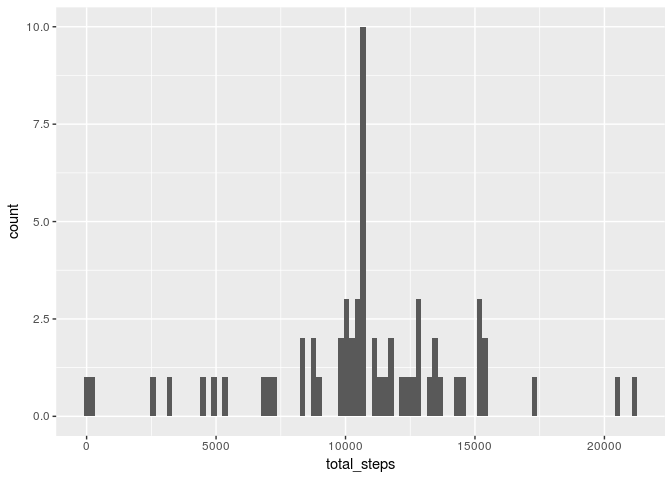
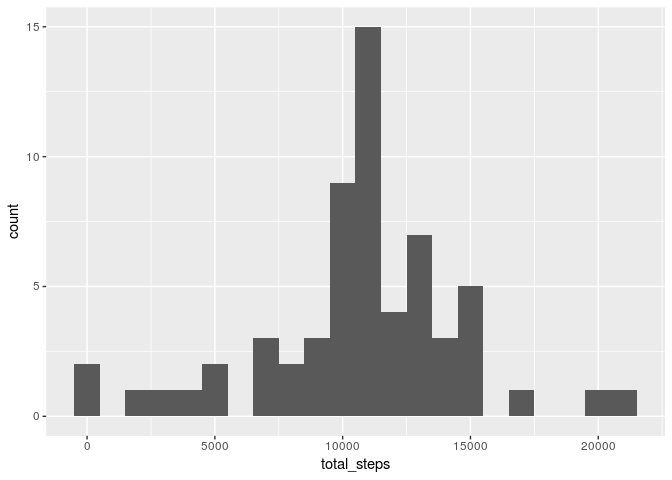
version 2

diff --git a/PA1_template.html b/PA1_template.html
@@ -165,8 +165,8 @@ activity &lt;- read.csv (unz(&quot;activity.zip&quot;,&quot;activity.csv&quot;))
 <p>Calculate the mean total number of steps taken per day by firstly grouping by day. Ignore any NA values.</p>
 <pre class="r"><code>total_steps_per_day &lt;- activity %&gt;% group_by(date) %&gt;% summarize(total_steps=sum(steps, na.rm=TRUE))</code></pre>
 <p>Now plot the histogram of total steps over the measurement period changing the bin width from 30 to 100:</p>
-<pre class="r"><code>qplot(x=total_steps,data=total_steps_per_day, bins=100)</code></pre>
[1 lines of base64/hex data omitted]
+<pre class="r"><code>qplot(x=total_steps,data=total_steps_per_day, binwidth=1000)</code></pre>
[1 lines of base64/hex data omitted]
 <p>Calculate the mean and median of the total_steps:</p>
 <pre class="r"><code>mean_steps &lt;- mean(total_steps_per_day$total_steps)
 median_steps &lt;- median(total_steps_per_day$total_steps)</code></pre>
@@ -193,8 +193,8 @@ qplot(x=interval, y=average_steps, data=average_interval, geom=&quot;path&quot; 
 completedata &lt;- mutate(completedata, steps= replace(steps,list=is.na(steps), values=mean(steps, na.rm=TRUE)))</code></pre>
 <p>Make a new histogram of the total steps for the complete data.</p>
 <pre class="r"><code>completedataplot &lt;- completedata %&gt;% group_by(date) %&gt;% summarize(total_steps=sum(steps))
-qplot(x=total_steps,data=completedataplot, bins=100)</code></pre>
[1 lines of base64/hex data omitted]
+qplot(x=total_steps,data=completedataplot, binwidth=1000)</code></pre>
[1 lines of base64/hex data omitted]
 <p>The new mean and median are:</p>
 <pre class="r"><code>new_mean_steps &lt;- mean(completedataplot$total_steps)
 new_median_steps &lt;- median(completedataplot$total_steps)</code></pre>

diff --git a/PA1_template.md b/PA1_template.md
@@ -96,7 +96,7 @@ Now plot the histogram of total steps over the measurement period changing the b
 
 
 ```r
-qplot(x=total_steps,data=total_steps_per_day, bins=100)
+qplot(x=total_steps,data=total_steps_per_day, binwidth=1000)
 ```
 
 ![](PA1_template_files/figure-html/unnamed-chunk-6-1.png)<!-- -->
@@ -156,7 +156,7 @@ Make a new histogram of the total steps for the complete data.
 
 ```r
 completedataplot <- completedata %>% group_by(date) %>% summarize(total_steps=sum(steps))
-qplot(x=total_steps,data=completedataplot, bins=100)
+qplot(x=total_steps,data=completedataplot, binwidth=1000)
 ```
 
 ![](PA1_template_files/figure-html/unnamed-chunk-12-1.png)<!-- -->
